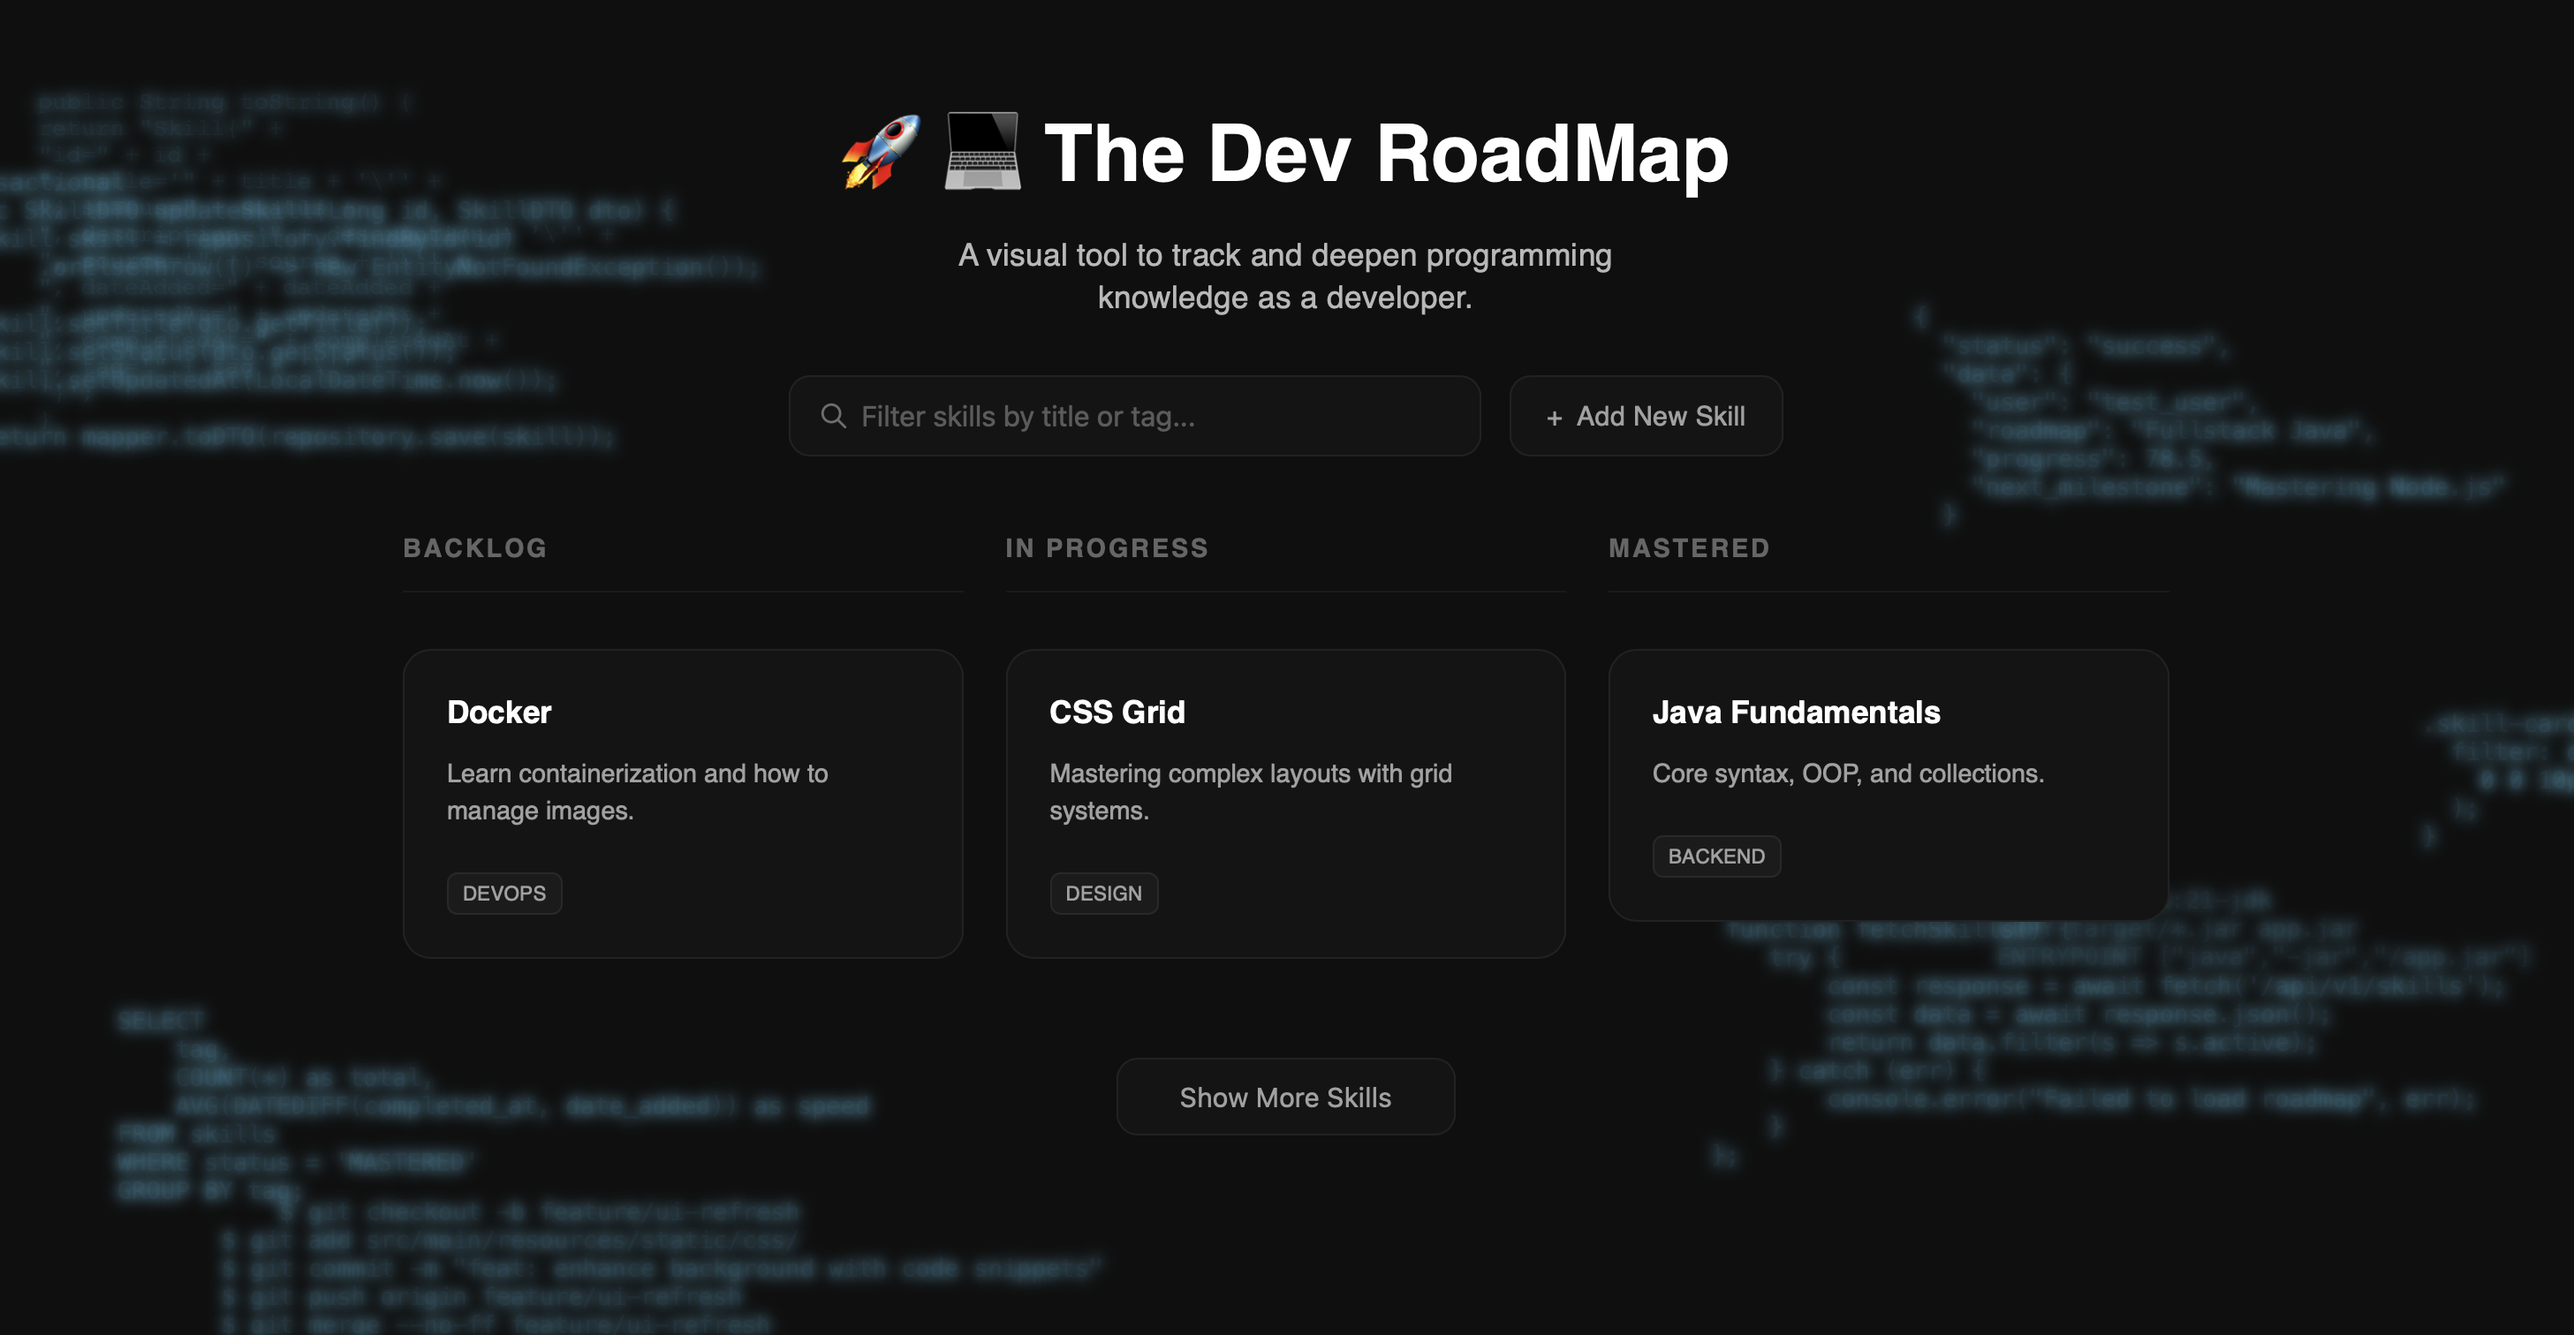
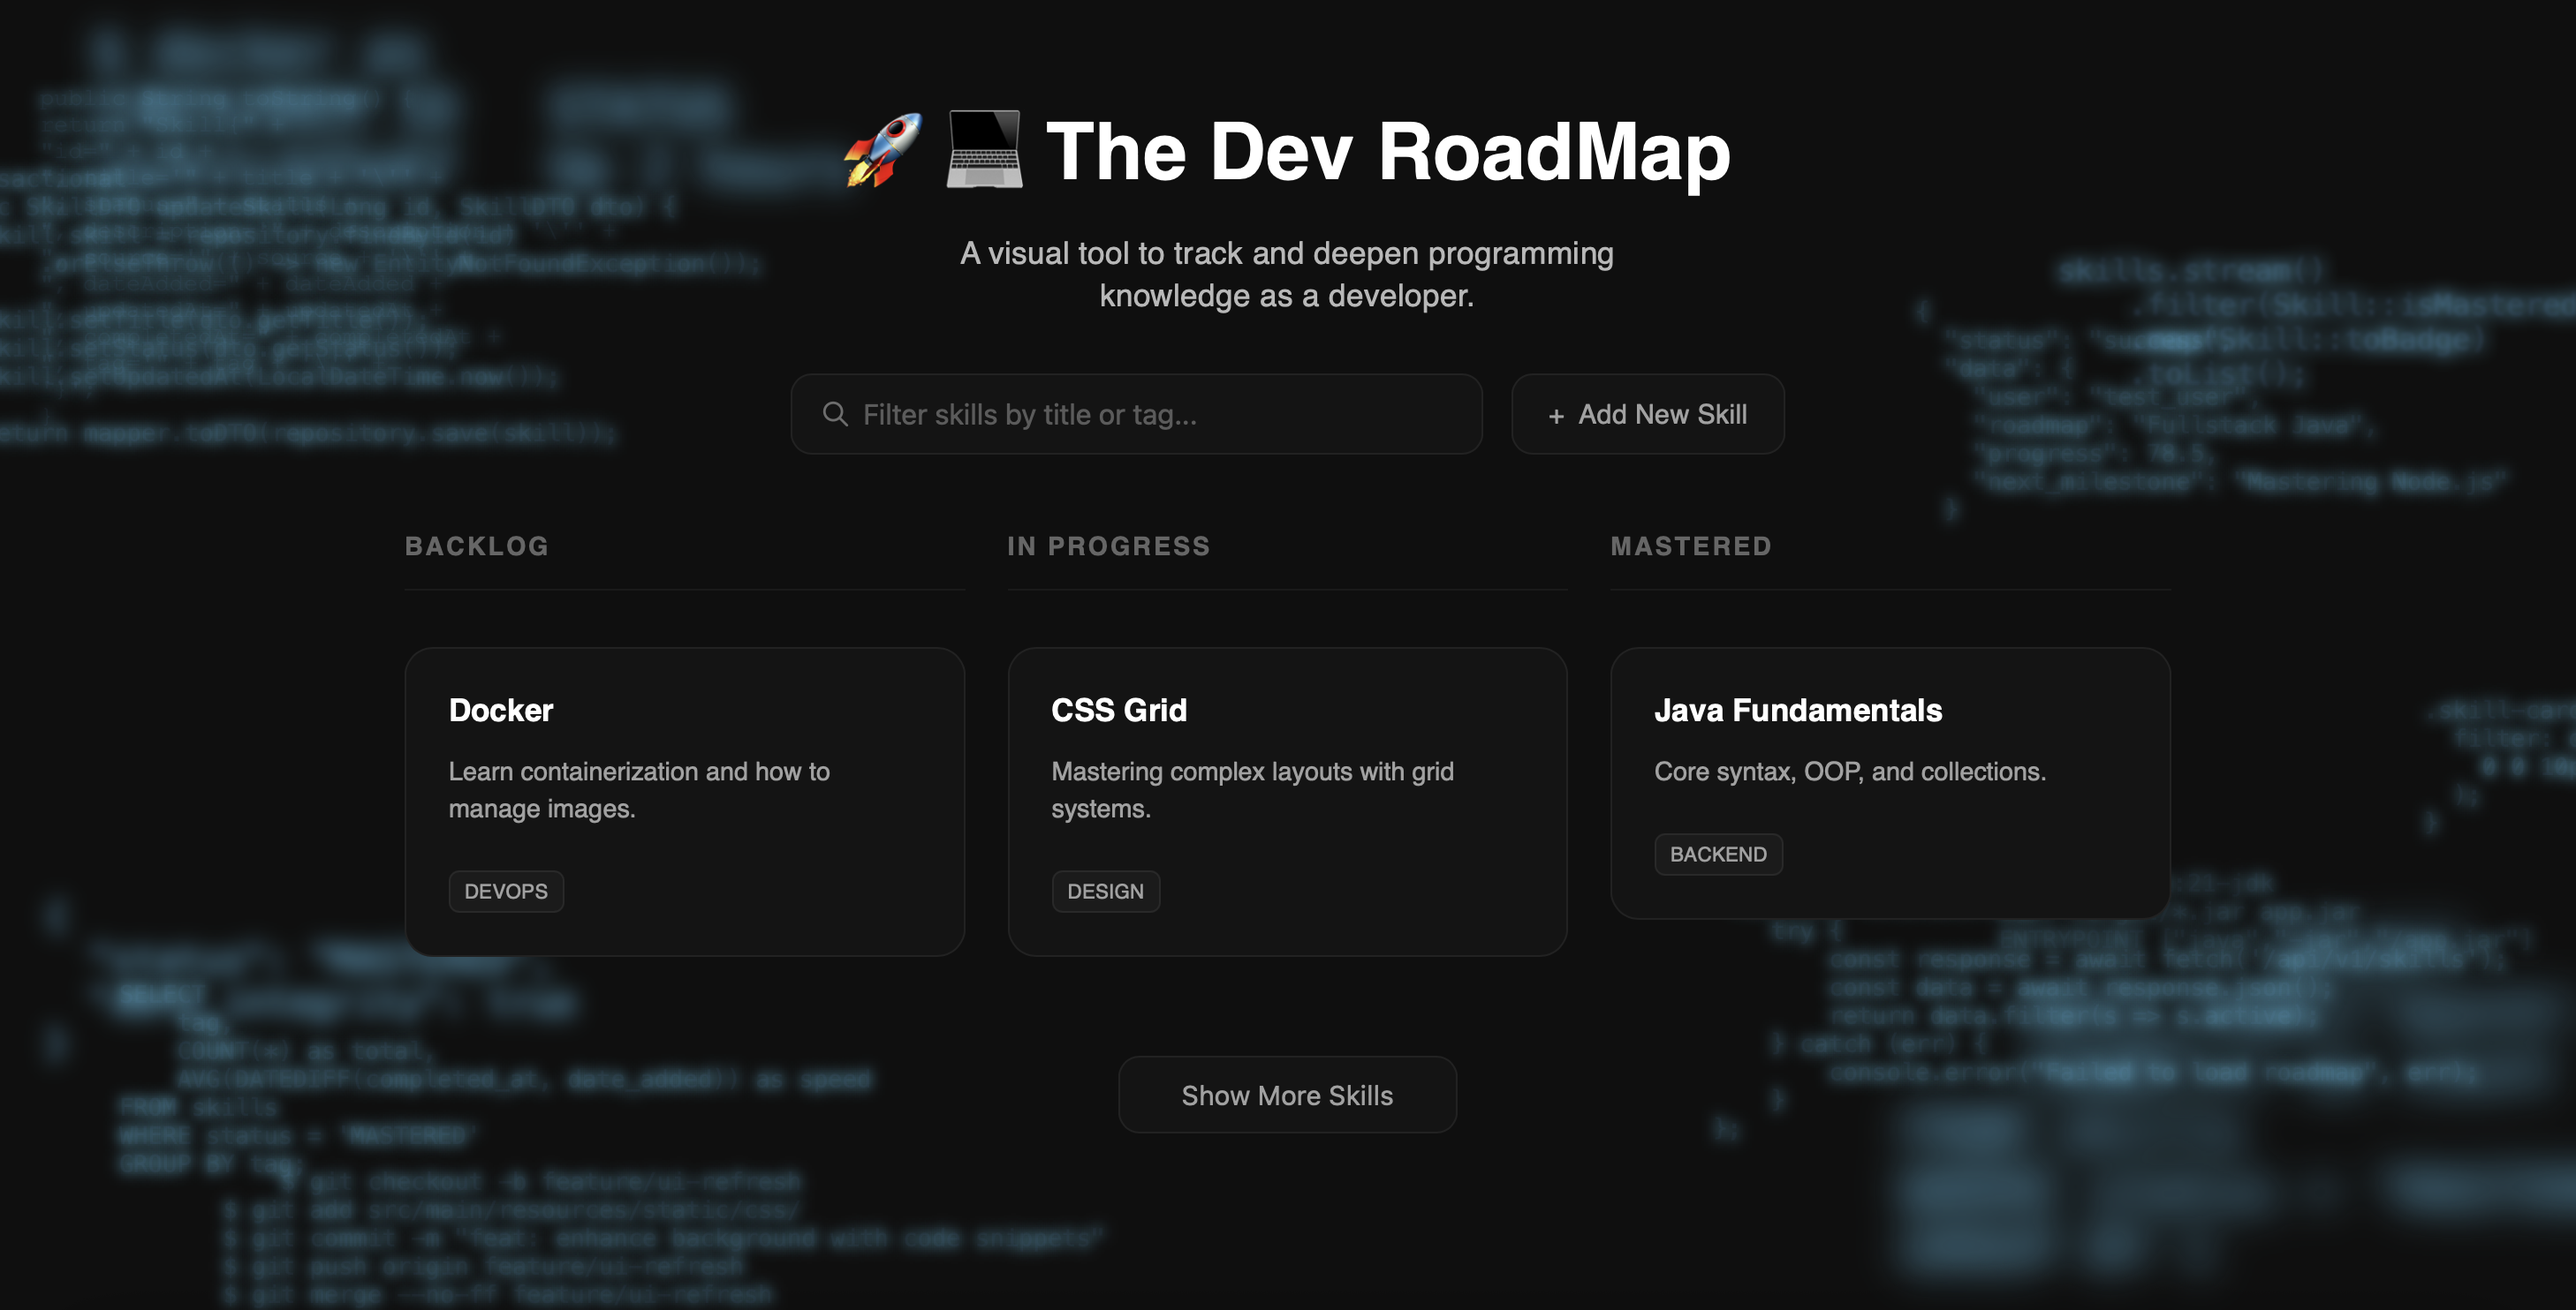
docs: update ReadMe with new preview image

diff --git a/src/main/resources/static/css/decorations.css b/src/main/resources/static/css/decorations.css
@@ -103,7 +103,7 @@
 .fg-docker-cli {
     top: -1%;
     left: 12%;
-    transform: scale(2.5);
+    transform: scale(2.2);
     filter: blur(2px);
 }
 
